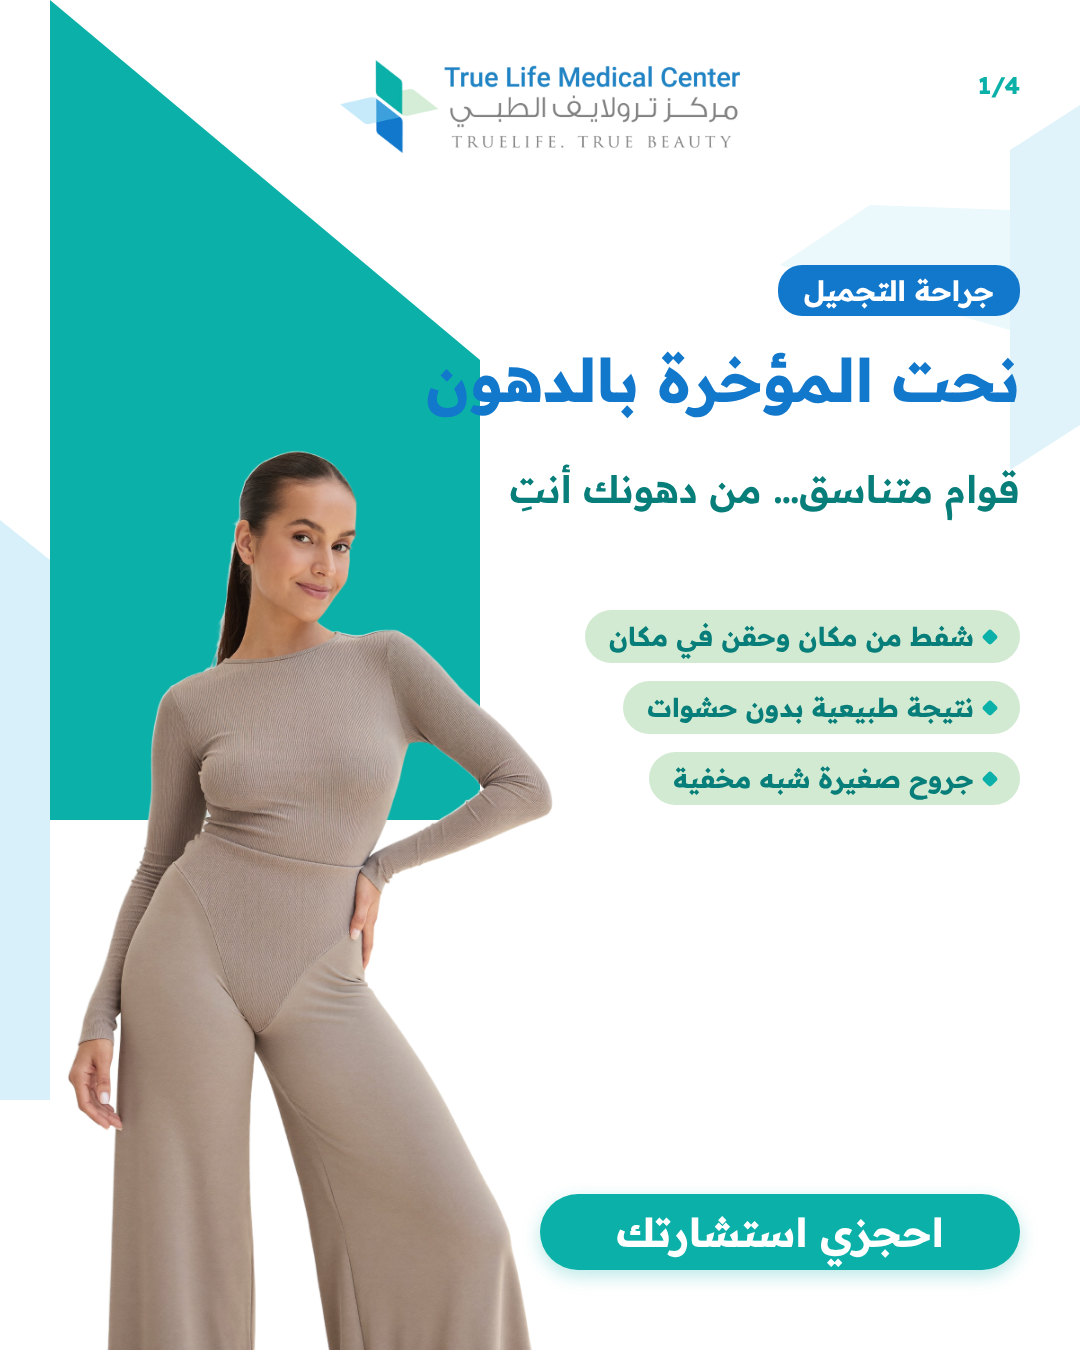
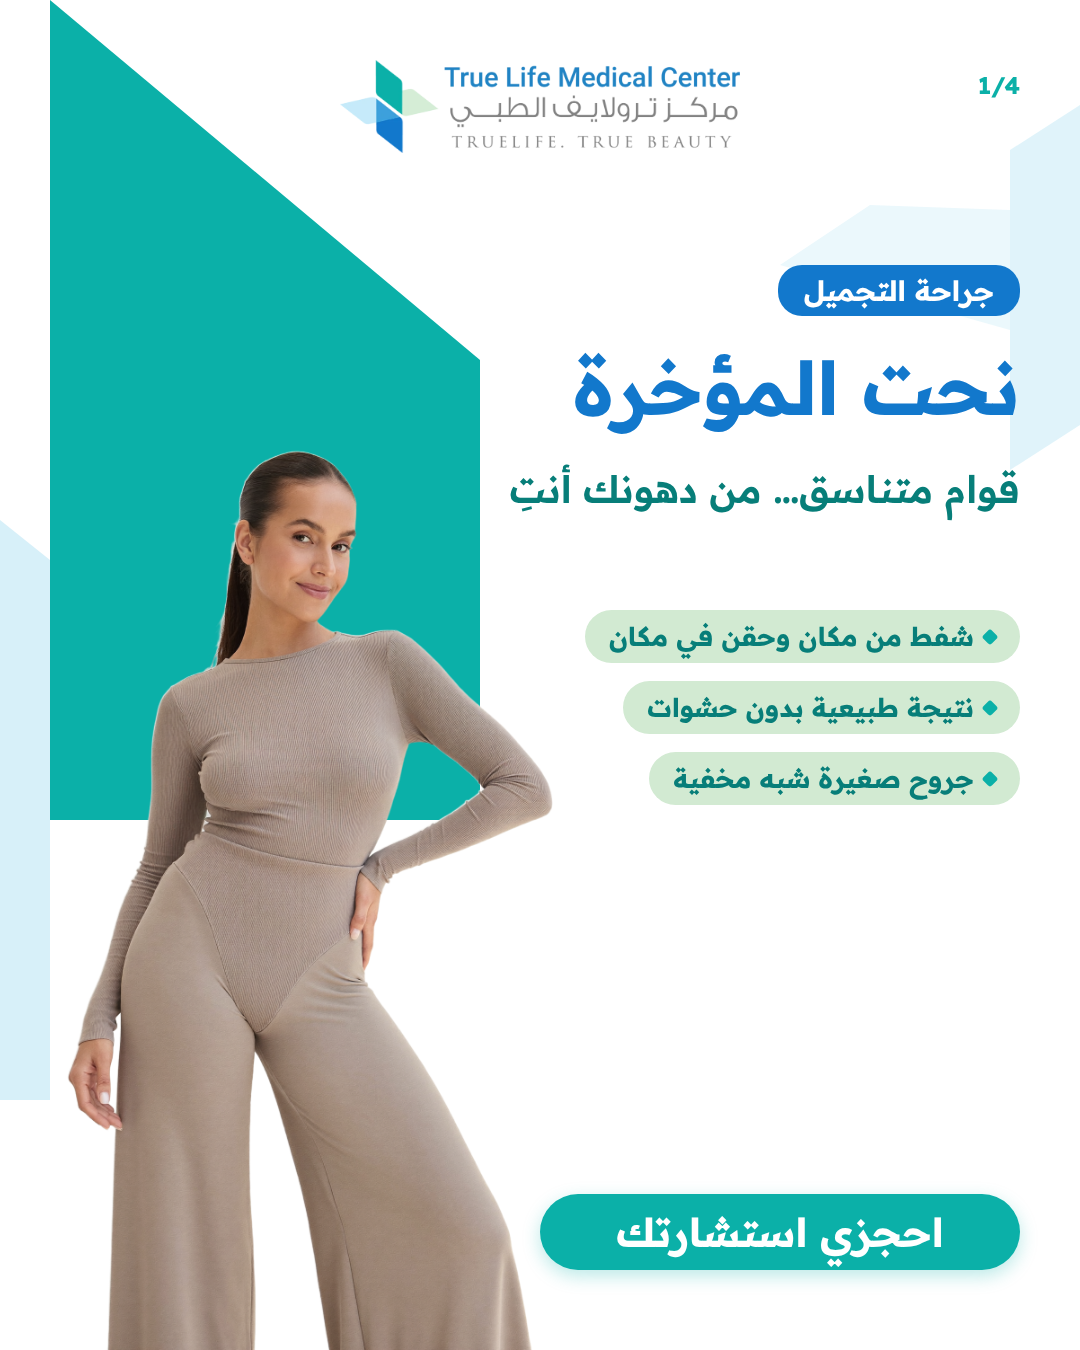
BBL cover: shorten title
Claude-Session: https://claude.ai/code/session_01EZd6nkjhojbY1JhgPgko2h

Changed region(s): [[0.3972, 0.2489, 0.9472, 0.3422]]

diff --git a/designs/plastic/bbl/carousel.html b/designs/plastic/bbl/carousel.html
@@ -25,7 +25,7 @@
   /* slide 1 */
   .s1 .model{position:absolute;left:-40px;bottom:0;width:690px}
   .s1 .tag{position:absolute;top:265px;right:60px;background:var(--blue);color:#fff;font-weight:700;font-size:28px;padding:8px 26px;border-radius:24px}
-  .s1 .ttl{position:absolute;top:345px;right:60px;font-size:60px;width:520px;text-align:right;white-space:nowrap}
+  .s1 .ttl{position:absolute;top:345px;right:60px;font-size:74px;width:520px;text-align:right;white-space:nowrap}
   .s1 .sub{position:absolute;top:465px;right:60px;font-size:38px;width:520px;text-align:right}
   .s1 .pills{position:absolute;top:610px;right:60px;display:flex;flex-direction:column;align-items:flex-start;gap:18px;width:500px}
   .s1 .cta{position:absolute;right:60px;bottom:80px;width:480px}
@@ -84,7 +84,7 @@
   <img class="model" src="model_cover.png" alt="">
   <img class="logo" src="../../brand/TL_logo_primary_1024x237.png" alt="True Life Medical Center">
   <div class="tag">جراحة التجميل</div>
-  <div class="ttl">نحت المؤخرة بالدهون</div>
+  <div class="ttl">نحت المؤخرة</div>
   <div class="sub">قوام متناسق… من دهونك أنتِ</div>
   <div class="pills">
     <span class="pill"><i></i>شفط من مكان وحقن في مكان</span>
